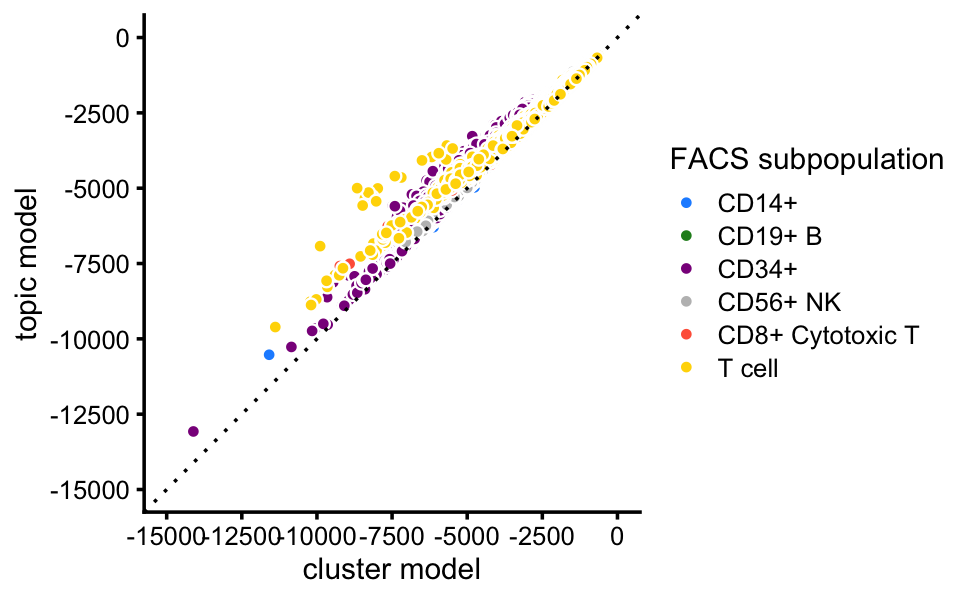
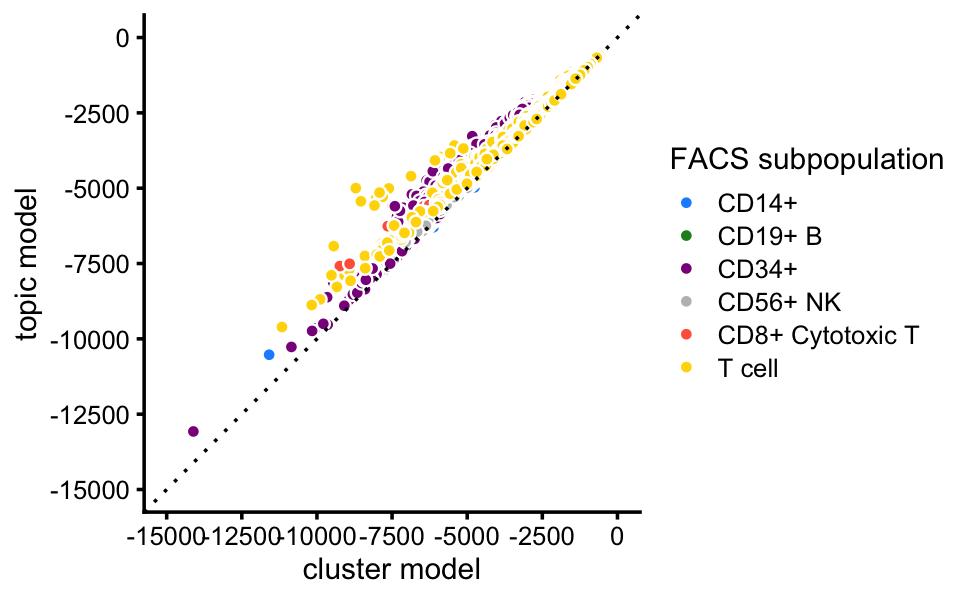
Build site.

Changed region(s): [[0.3125, 0.18, 0.5625, 0.51], [0.5625, 0.09, 0.625, 0.18], [0.2812, 0.54, 0.3125, 0.57]]

diff --git a/docs/loglik_purified_pbmc.html b/docs/loglik_purified_pbmc.html
@@ -414,16 +414,16 @@ This reproducible <a href="http://rmarkdown.rstudio.com">R Markdown</a> analysis
 <div class="panel panel-default">
 <div class="panel-heading">
 <p class="panel-title">
-<a data-toggle="collapse" data-parent="#workflowr-checks" href="#strongRepositoryversionstrongahrefhttpsgithubcomstephenslabsinglecelltopicstree808c2cc21e82eb010513322cfd00ca5d47d451b6targetblank808c2cca"> <span class="glyphicon glyphicon-ok text-success" aria-hidden="true"></span> <strong>Repository version:</strong> <a href="https://github.com/stephenslab/single-cell-topics/tree/808c2cc21e82eb010513322cfd00ca5d47d451b6" target="_blank">808c2cc</a> </a>
+<a data-toggle="collapse" data-parent="#workflowr-checks" href="#strongRepositoryversionstrongahrefhttpsgithubcomstephenslabsinglecelltopicstree9b72c9731be37ab5514d1663a8f1d5717c466cc6targetblank9b72c97a"> <span class="glyphicon glyphicon-ok text-success" aria-hidden="true"></span> <strong>Repository version:</strong> <a href="https://github.com/stephenslab/single-cell-topics/tree/9b72c9731be37ab5514d1663a8f1d5717c466cc6" target="_blank">9b72c97</a> </a>
 </p>
 </div>
[2 lines of base64/hex data omitted]
 <div class="panel-body">
 <p>
 Great! You are using Git for version control. Tracking code development and connecting the code version to the results is critical for reproducibility.
 </p>
 <p>
-The results in this page were generated with repository version <a href="https://github.com/stephenslab/single-cell-topics/tree/808c2cc21e82eb010513322cfd00ca5d47d451b6" target="_blank">808c2cc</a>. See the <em>Past versions</em> tab to see a history of the changes made to the R Markdown and HTML files.
+The results in this page were generated with repository version <a href="https://github.com/stephenslab/single-cell-topics/tree/9b72c9731be37ab5514d1663a8f1d5717c466cc6" target="_blank">9b72c97</a>. See the <em>Past versions</em> tab to see a history of the changes made to the R Markdown and HTML files.
 </p>
 <p>
 Note that you need to be careful to ensure that all relevant files for the analysis have been committed to Git prior to generating the results (you can use <code>wflow_publish</code> or <code>wflow_git_commit</code>). workflowr only checks the R Markdown file, but you know if there are other scripts or data files that it depends on. Below is the status of the Git repository when the results were generated:
@@ -447,6 +447,7 @@ Ignored files:
     Ignored:    output/pulseseq/rds/
 
 Untracked files:
+    Untracked:  analysis/clustering-pbmc-purified.rds
     Untracked:  plots/
 
 Unstaged changes:
@@ -489,6 +490,40 @@ Message
 </tr>
 </thead>
 <tbody>
+<tr>
+<td>
+Rmd
+</td>
+<td>
+<a href="https://github.com/stephenslab/single-cell-topics/blob/9b72c9731be37ab5514d1663a8f1d5717c466cc6/analysis/loglik_purified_pbmc.Rmd" target="_blank">9b72c97</a>
+</td>
+<td>
+Peter Carbonetto
+</td>
+<td>
+2021-01-05
+</td>
+<td>
+workflowr::wflow_publish(“loglik_purified_pbmc.Rmd”)
+</td>
+</tr>
+<tr>
+<td>
+html
+</td>
+<td>
+<a href="https://rawcdn.githack.com/stephenslab/single-cell-topics/86842d9dfdef1eb321c9d19fc3dcf37f250e7022/docs/loglik_purified_pbmc.html" target="_blank">86842d9</a>
+</td>
+<td>
+Peter Carbonetto
+</td>
+<td>
+2021-01-05
+</td>
+<td>
+A few small adjustments to the code in the loglik_purified_pbmc analysis.
+</td>
+</tr>
 <tr>
 <td>
 Rmd
@@ -740,11 +775,11 @@ Peter Carbonetto
 <p>Combine the T-cell subpopulations into one category:</p>
 <pre class="r"><code>celltype &lt;- as.character(samples$celltype)
 celltype[celltype == &quot;CD14+ Monocyte&quot;] &lt;- &quot;CD14+&quot;
-celltype[celltype == &quot;CD4+/CD45RA+/CD25- Naive T&quot;] &lt;- &quot;T cell&quot;
-celltype[celltype == &quot;CD4+/CD45RO+ Memory&quot;] &lt;- &quot;T cell&quot;
-celltype[celltype == &quot;CD8+/CD45RA+ Naive Cytotoxic&quot;] &lt;- &quot;T cell&quot;
-celltype[celltype == &quot;CD4+ T Helper2&quot;] &lt;- &quot;T cell&quot;
-celltype[celltype == &quot;CD4+/CD25 T Reg&quot;] &lt;- &quot;T cell&quot;
+celltype[celltype == &quot;CD4+/CD45RA+/CD25- Naive T&quot; |
+         celltype == &quot;CD4+/CD45RO+ Memory&quot; |
+         celltype == &quot;CD8+/CD45RA+ Naive Cytotoxic&quot; |
+         celltype == &quot;CD4+ T Helper2&quot; |
+         celltype == &quot;CD4+/CD25 T Reg&quot;] &lt;- &quot;T cell&quot;
 celltype &lt;- factor(celltype)</code></pre>
 <p>Most of the poorly fit cells are in the CD34+ subpopulation:</p>
 <pre class="r"><code>pdat &lt;- data.frame(loglik = loglik,celltype = celltype)
@@ -804,8 +839,9 @@ Peter Carbonetto
 </table>
 </div>
 </div>
+<p><em>TO DO: Revise this text.</em></p>
 <p>Here, we compare the single-cell likelihoods under the multinomial topic model against the likelihoods under a simple “hard clustering” model in which the cells in each FACS subpopulation share the same underlying pattern of expression. This serves as a sanity check, as we expect the fit to improve with the more flexible topic model.</p>
-<pre class="r"><code>fit_subpop &lt;- init_poisson_nmf_from_clustering(counts,celltype)
+<pre class="r"><code>fit_subpop &lt;- init_poisson_nmf_from_clustering(counts,samples$celltype)
 fit_subpop &lt;- poisson2multinom(fit_subpop)
 loglik_subpop &lt;- loglik_multinom_topic_model(counts,fit_subpop)</code></pre>
 <p>Indeed, the topic model provides a better fit for almost all cells:</p>
